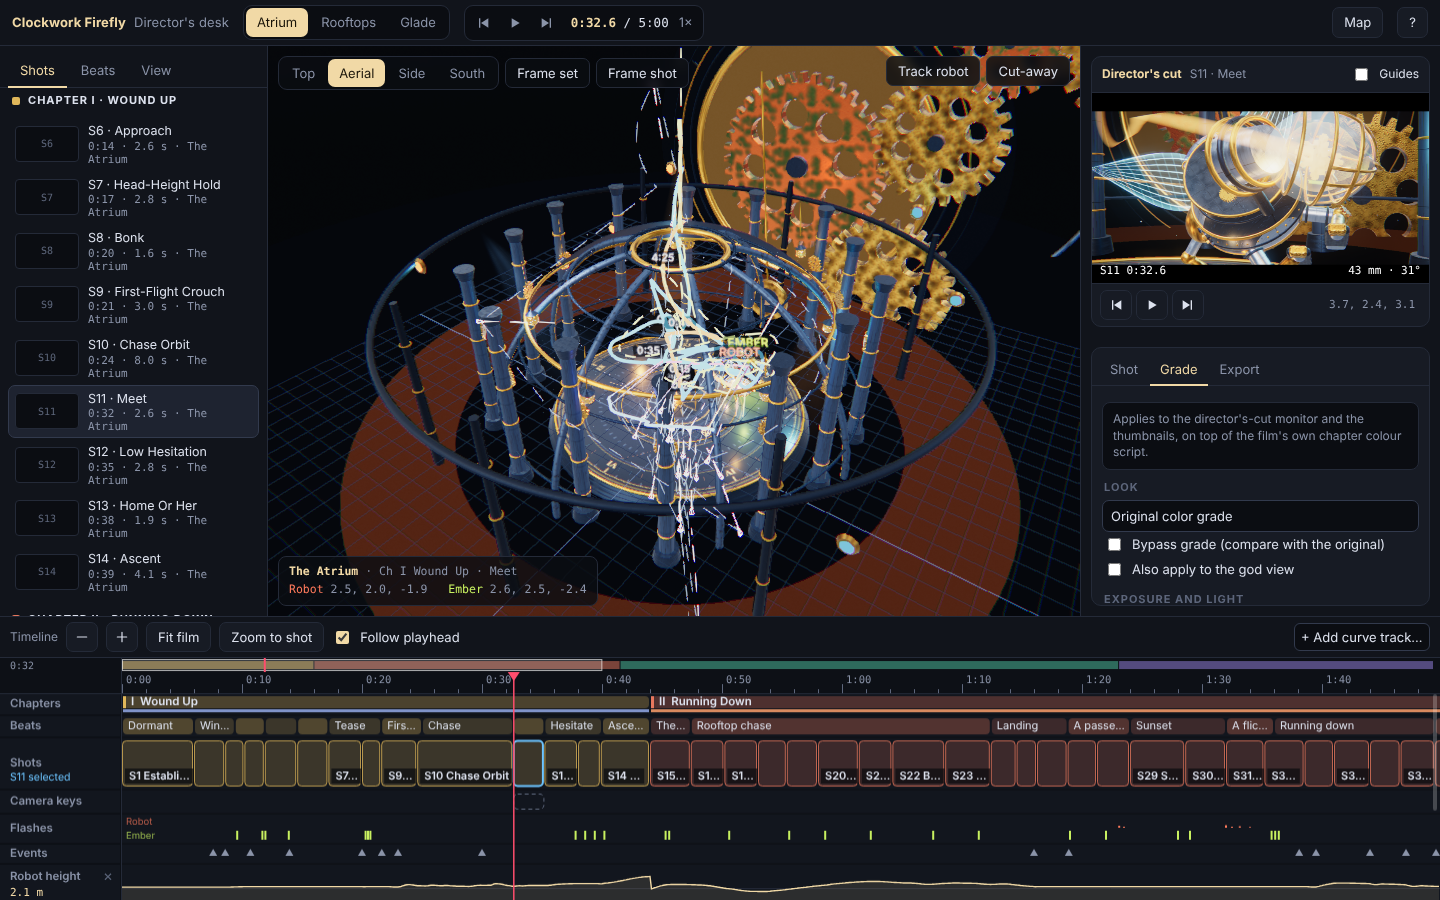
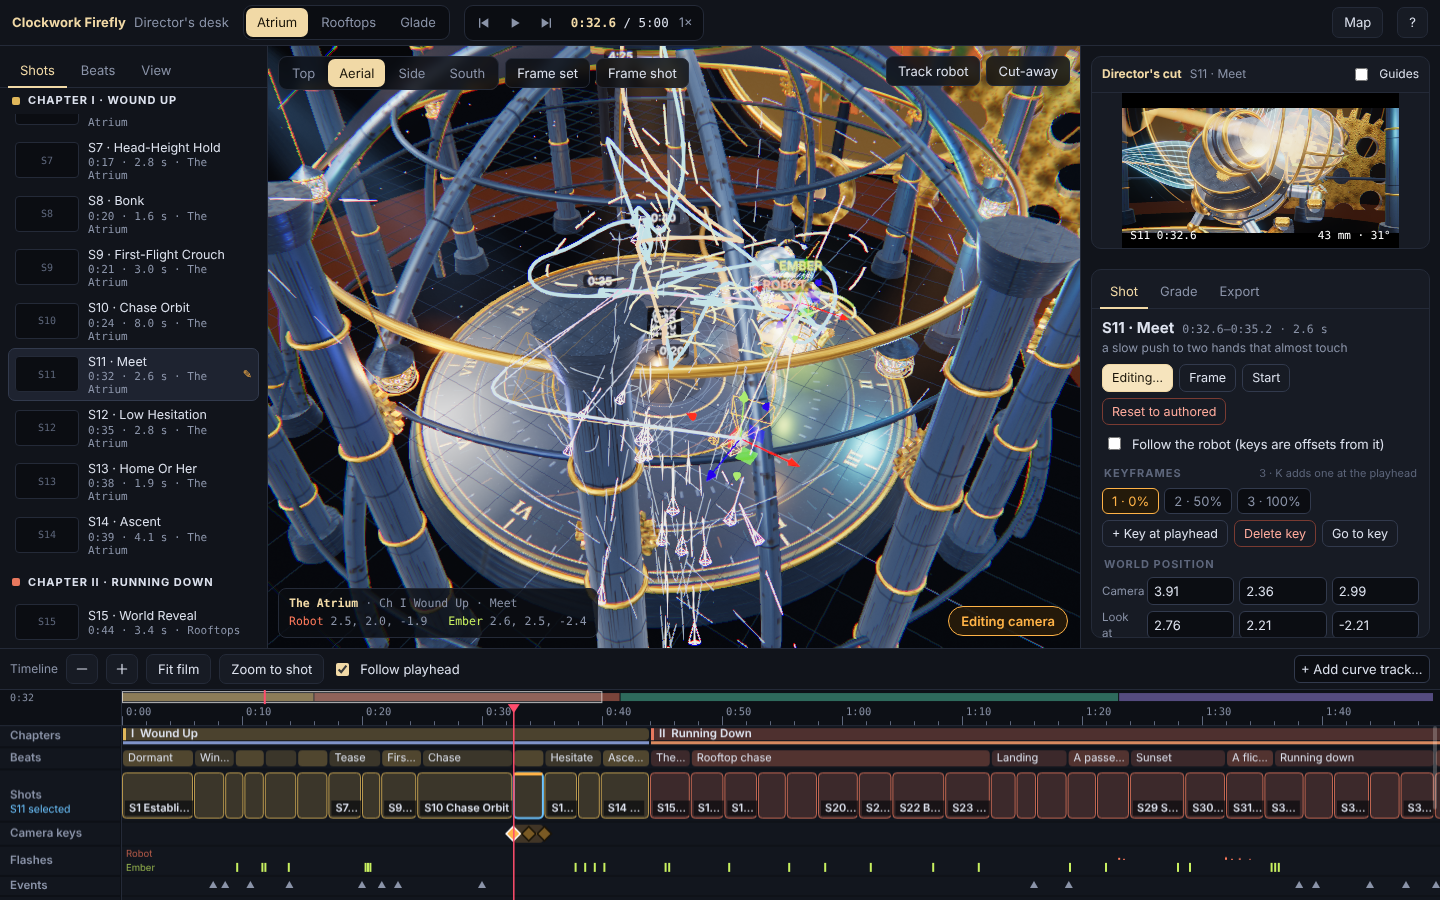
Polish Director's desk: tidier edit layout, real-pointer test steps
Move the editing badge off the toolbar, size the timeline to the window,
hide the monitor transport on short screens, compact inspector buttons,
note that exposure and bloom are preview-only, add mouse steps to gvtest.

Claude-Session: https://claude.ai/code/session_011UNH1eXFp4kGTqyJp5jUQw

diff --git a/Clockwork_Firefly_godview.html b/Clockwork_Firefly_godview.html
@@ -121,7 +121,7 @@ body.godview{background:var(--gv-bg)}
 body.godview #titleCard,body.godview #chapterCard,body.godview #end,body.godview #start,body.godview #loader,body.godview #chrome,body.godview #notes,body.godview #toast{display:none!important}
 #gv,#gvBoot,#gvMap,#gvHelp,#gvTip{font:13px/1.4 var(--gv-font);color:var(--gv-text)}
 #gv *{box-sizing:border-box}
-#gv{position:fixed;inset:0;z-index:20;display:grid;grid-template-columns:268px minmax(0,1fr) 360px;grid-template-rows:46px minmax(0,1fr) var(--gv-tlh,284px);grid-template-areas:"top top top" "left stage right" "tl tl tl";background:var(--gv-bg)}
+#gv{position:fixed;inset:0;z-index:20;display:grid;grid-template-columns:268px minmax(0,1fr) 360px;grid-template-rows:46px minmax(0,1fr) var(--gv-tlh,min(284px,28vh));grid-template-areas:"top top top" "left stage right" "tl tl tl";background:var(--gv-bg)}
 #gv button,#gv select,#gv input,#gv textarea{font:inherit}
 :where(#gv) button,:where(#gv) select,:where(#gv) input,:where(#gv) textarea{color:var(--gv-text)}
 #gv button{cursor:pointer}
@@ -216,7 +216,7 @@ input[type=range]{width:100%;accent-color:var(--gv-gold);height:18px;background:
 #gvReadout{font:11.5px var(--gv-mono);padding:6px 10px;background:rgba(11,13,18,.82);border:1px solid var(--gv-line);border-radius:8px;color:var(--gv-dim);pointer-events:none;line-height:1.55}
 #gvReadout b{color:var(--gv-gold);font-weight:600}
 #gvReadout .r{color:var(--gv-hero)}#gvReadout .e{color:var(--gv-ember)}
-#gvEditBadge{position:absolute;z-index:3;left:50%;top:10px;transform:translateX(-50%);padding:5px 12px;background:rgba(40,28,10,.9);border:1px solid var(--gv-edit);color:var(--gv-edit);border-radius:99px;font-weight:600;pointer-events:none}
+#gvEditBadge{position:absolute;z-index:3;right:12px;bottom:12px;padding:5px 12px;background:rgba(40,28,10,.9);border:1px solid var(--gv-edit);color:var(--gv-edit);border-radius:99px;font-weight:600;pointer-events:none}
 #gvTip{position:fixed;z-index:70;pointer-events:none;background:rgba(10,12,18,.96);border:1px solid var(--gv-line2);border-radius:8px;padding:6px 10px;font:12px var(--gv-mono)}
 
 /* monitor */
@@ -289,6 +289,10 @@ textarea.num{height:120px;resize:vertical}
   #gvTop .brand i{display:none}
 }
 @media (prefers-reduced-motion:reduce){#gvLeft,#gvRight{transition:none}}
+
+@media (max-height:980px) and (min-width:901px){.monbar{display:none}}
+#gvIShot .btns .btn{padding:4px 9px;font-size:12.5px}
+@media (max-height:980px) and (min-width:901px){#gvMonCard .monwrap{width:82%;margin:0 auto}}
 
 </style>
 </head>
@@ -7371,7 +7375,7 @@ function godViewInstall(film) {
     let h = `<div class="shead"><h3>S${i + 1} · ${gvEsc(gvShotTitle(s.t0, i))}</h3><span class="m">${gvFmtF(s.t0)}–${gvFmtF(s.t1)} · ${shotDur(i).toFixed(1)} s</span></div>`;
     const desc = note && note.split(/\s+[—-]\s+/).length > 1 ? note.split(/\s+[—-]\s+/).slice(1).join(' — ') : '';
     h += `<div class="snote">${gvEsc(desc || 'Authored in code. Its camera follows the action with springs and a slow move.')}</div>`;
-    h += `<div class="btns"><button class="btn pri" id="iEdit">${ov ? (gv.editOn ? 'Editing…' : 'Edit camera') : 'Edit camera'}</button><button class="btn" id="iFrame">Frame shot</button><button class="btn" id="iStart">Go to start</button>${ov ? '<button class="btn warn" id="iReset">Reset to authored</button>' : ''}</div>`;
+    h += `<div class="btns"><button class="btn pri" id="iEdit">${ov ? (gv.editOn ? 'Editing…' : 'Edit camera') : 'Edit camera'}</button><button class="btn" id="iFrame">Frame</button><button class="btn" id="iStart">Start</button>${ov ? '<button class="btn warn" id="iReset">Reset to authored</button>' : ''}</div>`;
     if (!ov) {
       h += `<div class="note">This shot is driven by code: it reads the robot's position, adds spring smoothing and a slow move${drift ? ` (drift ${gvEsc(Object.entries(drift).map(([k, v]) => k + ' ' + JSON.stringify(v)).join(', '))})` : ''}${hand ? `, plus handheld sway (${hand[0]})` : ''}. <b>Edit camera</b> bakes it into ${shotDur(i) > 2.5 ? '3' : '2'} keyframes you can move with the gizmos or the numbers below.</div>`;
     } else {
@@ -7380,7 +7384,7 @@ function godViewInstall(film) {
       h += `<div class="sect">Keyframes <span class="hint">${ov.keys.length} · K adds one at the playhead</span></div><div class="keys">${ov.keys.map((kk, n) => `<button data-key="${n}" class="${n === gv.selKey ? 'on' : ''}">${n + 1} · ${Math.round(kk.u * 100)}%</button>`).join('')}</div>`;
       h += `<div class="btns"><button class="btn sm" id="iAddKey">+ Key at playhead</button><button class="btn sm warn" id="iDelKey" ${ov.keys.length <= 1 ? 'disabled' : ''}>Delete key</button><button class="btn sm" id="iGoKey">Go to key</button></div>`;
       h += `<div class="sect">${pf}</div><div class="xyz"><label>Camera</label>${['px', 'py', 'pz'].map((f, n) => `<input class="num" data-f="${f}" type="number" step="0.05" value="${num(k.pos[n])}">`).join('')}</div>`;
-      h += `<div class="xyz"><label>Look at</label>${['tx', 'ty', 'tz'].map((f, n) => `<input class="num" data-f="${f}" type="number" step="0.05" value="${num(k.target[n])}">`).join('')}</div>`;
+      h += `<div class="xyz"><label>Aim</label>${['tx', 'ty', 'tz'].map((f, n) => `<input class="num" data-f="${f}" type="number" step="0.05" value="${num(k.target[n])}">`).join('')}</div>`;
       h += `<div class="rg"><label for="kFov">Lens</label><input type="range" id="kFov" data-f="fov" min="12" max="90" step="0.5" value="${num(k.fov, 1)}"><output id="kFovV">${num(k.fov, 0)}° · ${(12 / Math.tan(THREE.MathUtils.degToRad(k.fov / 2))).toFixed(0)} mm</output></div>`;
       h += `<div class="rg"><label for="kRoll">Dutch</label><input type="range" id="kRoll" data-f="roll" min="-15" max="15" step="0.25" value="${num((k.roll || 0) * 57.2958, 2)}"><output id="kRollV">${num((k.roll || 0) * 57.2958, 1)}°</output></div>`;
       h += `<div class="rg"><label for="kShake">Shake</label><input type="range" id="kShake" data-f="shake" min="0" max="1" step="0.01" value="${num(k.shake ?? 0.15)}"><output id="kShakeV">${num(k.shake ?? 0.15)}</output></div>`;
@@ -7438,7 +7442,7 @@ function godViewInstall(film) {
   const hexTint = (h) => [1, 3, 5].map((n) => 0.5 + parseInt(h.slice(n, n + 2), 16) / 255);
   function renderGrade() {
     const names = Object.entries(gradeNames).filter(([k]) => k !== 'gvcustom');
-    let h = `<div class="note">Applies to the director's-cut monitor and the thumbnails, on top of the film's own chapter colour script. ${G.touched ? '<b>Edited.</b>' : ''}</div>`;
+    let h = `<div class="note">Applies to the director's-cut monitor and the thumbnails, on top of the film's own chapter colour script. Look, tone and colour are baked into the film on export; exposure and bloom are for previewing only. ${G.touched ? '<b>Edited.</b>' : ''}</div>`;
     h += `<div class="sect">Look</div><select class="sel" id="gBase">${names.map(([k, v]) => `<option value="${k}" ${k === G.base ? 'selected' : ''}>${gvEsc(v)}</option>`).join('')}</select>`;
     h += `<label class="chk"><input type="checkbox" id="gBypass" ${G.bypass ? 'checked' : ''}> Bypass grade (compare with the original)</label><label class="chk"><input type="checkbox" id="gGod" ${G.applyGod ? 'checked' : ''}> Also apply to the god view</label>`;
     h += `<div class="sect">Exposure and light</div><div class="rg"><label>Exposure</label><input type="range" data-g="exposure" min="0.4" max="2.5" step="0.01" value="${G.exposure}"><output>${G.exposure.toFixed(2)}</output></div><div class="rg"><label>Bloom</label><input type="range" data-g="bloom" min="0" max="3" step="0.01" value="${G.bloom}"><output>${G.bloom.toFixed(2)}</output></div>`;
@@ -7652,6 +7656,7 @@ function godViewInstall(film) {
   $g('gvBoot').classList.add('hidden');
   fitStage();
   Object.assign(gv, { setView, setSet, openMap, frameSet, frameShot, startCapture, shotOfSet, keyWorld, rebuildEdit, renderShotRows, state, layers, sm, bounds, cap });
+  gv.dbg = { proxyPos, proxyTgt, camera, renderer, THREE };
   window.__godview = gv;
 }
 

diff --git a/tools/godview.inject.js b/tools/godview.inject.js
@@ -513,7 +513,7 @@ function godViewInstall(film) {
     let h = `<div class="shead"><h3>S${i + 1} · ${gvEsc(gvShotTitle(s.t0, i))}</h3><span class="m">${gvFmtF(s.t0)}–${gvFmtF(s.t1)} · ${shotDur(i).toFixed(1)} s</span></div>`;
     const desc = note && note.split(/\s+[—-]\s+/).length > 1 ? note.split(/\s+[—-]\s+/).slice(1).join(' — ') : '';
     h += `<div class="snote">${gvEsc(desc || 'Authored in code. Its camera follows the action with springs and a slow move.')}</div>`;
-    h += `<div class="btns"><button class="btn pri" id="iEdit">${ov ? (gv.editOn ? 'Editing…' : 'Edit camera') : 'Edit camera'}</button><button class="btn" id="iFrame">Frame shot</button><button class="btn" id="iStart">Go to start</button>${ov ? '<button class="btn warn" id="iReset">Reset to authored</button>' : ''}</div>`;
+    h += `<div class="btns"><button class="btn pri" id="iEdit">${ov ? (gv.editOn ? 'Editing…' : 'Edit camera') : 'Edit camera'}</button><button class="btn" id="iFrame">Frame</button><button class="btn" id="iStart">Start</button>${ov ? '<button class="btn warn" id="iReset">Reset to authored</button>' : ''}</div>`;
     if (!ov) {
       h += `<div class="note">This shot is driven by code: it reads the robot's position, adds spring smoothing and a slow move${drift ? ` (drift ${gvEsc(Object.entries(drift).map(([k, v]) => k + ' ' + JSON.stringify(v)).join(', '))})` : ''}${hand ? `, plus handheld sway (${hand[0]})` : ''}. <b>Edit camera</b> bakes it into ${shotDur(i) > 2.5 ? '3' : '2'} keyframes you can move with the gizmos or the numbers below.</div>`;
     } else {
@@ -522,7 +522,7 @@ function godViewInstall(film) {
       h += `<div class="sect">Keyframes <span class="hint">${ov.keys.length} · K adds one at the playhead</span></div><div class="keys">${ov.keys.map((kk, n) => `<button data-key="${n}" class="${n === gv.selKey ? 'on' : ''}">${n + 1} · ${Math.round(kk.u * 100)}%</button>`).join('')}</div>`;
       h += `<div class="btns"><button class="btn sm" id="iAddKey">+ Key at playhead</button><button class="btn sm warn" id="iDelKey" ${ov.keys.length <= 1 ? 'disabled' : ''}>Delete key</button><button class="btn sm" id="iGoKey">Go to key</button></div>`;
       h += `<div class="sect">${pf}</div><div class="xyz"><label>Camera</label>${['px', 'py', 'pz'].map((f, n) => `<input class="num" data-f="${f}" type="number" step="0.05" value="${num(k.pos[n])}">`).join('')}</div>`;
-      h += `<div class="xyz"><label>Look at</label>${['tx', 'ty', 'tz'].map((f, n) => `<input class="num" data-f="${f}" type="number" step="0.05" value="${num(k.target[n])}">`).join('')}</div>`;
+      h += `<div class="xyz"><label>Aim</label>${['tx', 'ty', 'tz'].map((f, n) => `<input class="num" data-f="${f}" type="number" step="0.05" value="${num(k.target[n])}">`).join('')}</div>`;
       h += `<div class="rg"><label for="kFov">Lens</label><input type="range" id="kFov" data-f="fov" min="12" max="90" step="0.5" value="${num(k.fov, 1)}"><output id="kFovV">${num(k.fov, 0)}° · ${(12 / Math.tan(THREE.MathUtils.degToRad(k.fov / 2))).toFixed(0)} mm</output></div>`;
       h += `<div class="rg"><label for="kRoll">Dutch</label><input type="range" id="kRoll" data-f="roll" min="-15" max="15" step="0.25" value="${num((k.roll || 0) * 57.2958, 2)}"><output id="kRollV">${num((k.roll || 0) * 57.2958, 1)}°</output></div>`;
       h += `<div class="rg"><label for="kShake">Shake</label><input type="range" id="kShake" data-f="shake" min="0" max="1" step="0.01" value="${num(k.shake ?? 0.15)}"><output id="kShakeV">${num(k.shake ?? 0.15)}</output></div>`;
@@ -580,7 +580,7 @@ function godViewInstall(film) {
   const hexTint = (h) => [1, 3, 5].map((n) => 0.5 + parseInt(h.slice(n, n + 2), 16) / 255);
   function renderGrade() {
     const names = Object.entries(gradeNames).filter(([k]) => k !== 'gvcustom');
-    let h = `<div class="note">Applies to the director's-cut monitor and the thumbnails, on top of the film's own chapter colour script. ${G.touched ? '<b>Edited.</b>' : ''}</div>`;
+    let h = `<div class="note">Applies to the director's-cut monitor and the thumbnails, on top of the film's own chapter colour script. Look, tone and colour are baked into the film on export; exposure and bloom are for previewing only. ${G.touched ? '<b>Edited.</b>' : ''}</div>`;
     h += `<div class="sect">Look</div><select class="sel" id="gBase">${names.map(([k, v]) => `<option value="${k}" ${k === G.base ? 'selected' : ''}>${gvEsc(v)}</option>`).join('')}</select>`;
     h += `<label class="chk"><input type="checkbox" id="gBypass" ${G.bypass ? 'checked' : ''}> Bypass grade (compare with the original)</label><label class="chk"><input type="checkbox" id="gGod" ${G.applyGod ? 'checked' : ''}> Also apply to the god view</label>`;
     h += `<div class="sect">Exposure and light</div><div class="rg"><label>Exposure</label><input type="range" data-g="exposure" min="0.4" max="2.5" step="0.01" value="${G.exposure}"><output>${G.exposure.toFixed(2)}</output></div><div class="rg"><label>Bloom</label><input type="range" data-g="bloom" min="0" max="3" step="0.01" value="${G.bloom}"><output>${G.bloom.toFixed(2)}</output></div>`;
@@ -794,5 +794,6 @@ function godViewInstall(film) {
   $g('gvBoot').classList.add('hidden');
   fitStage();
   Object.assign(gv, { setView, setSet, openMap, frameSet, frameShot, startCapture, shotOfSet, keyWorld, rebuildEdit, renderShotRows, state, layers, sm, bounds, cap });
+  gv.dbg = { proxyPos, proxyTgt, camera, renderer, THREE };
   window.__godview = gv;
 }

diff --git a/tools/godview.css b/tools/godview.css
@@ -11,7 +11,7 @@ body.godview{background:var(--gv-bg)}
 body.godview #titleCard,body.godview #chapterCard,body.godview #end,body.godview #start,body.godview #loader,body.godview #chrome,body.godview #notes,body.godview #toast{display:none!important}
 #gv,#gvBoot,#gvMap,#gvHelp,#gvTip{font:13px/1.4 var(--gv-font);color:var(--gv-text)}
 #gv *{box-sizing:border-box}
-#gv{position:fixed;inset:0;z-index:20;display:grid;grid-template-columns:268px minmax(0,1fr) 360px;grid-template-rows:46px minmax(0,1fr) var(--gv-tlh,284px);grid-template-areas:"top top top" "left stage right" "tl tl tl";background:var(--gv-bg)}
+#gv{position:fixed;inset:0;z-index:20;display:grid;grid-template-columns:268px minmax(0,1fr) 360px;grid-template-rows:46px minmax(0,1fr) var(--gv-tlh,min(284px,28vh));grid-template-areas:"top top top" "left stage right" "tl tl tl";background:var(--gv-bg)}
 #gv button,#gv select,#gv input,#gv textarea{font:inherit}
 :where(#gv) button,:where(#gv) select,:where(#gv) input,:where(#gv) textarea{color:var(--gv-text)}
 #gv button{cursor:pointer}
@@ -106,7 +106,7 @@ input[type=range]{width:100%;accent-color:var(--gv-gold);height:18px;background:
 #gvReadout{font:11.5px var(--gv-mono);padding:6px 10px;background:rgba(11,13,18,.82);border:1px solid var(--gv-line);border-radius:8px;color:var(--gv-dim);pointer-events:none;line-height:1.55}
 #gvReadout b{color:var(--gv-gold);font-weight:600}
 #gvReadout .r{color:var(--gv-hero)}#gvReadout .e{color:var(--gv-ember)}
-#gvEditBadge{position:absolute;z-index:3;left:50%;top:10px;transform:translateX(-50%);padding:5px 12px;background:rgba(40,28,10,.9);border:1px solid var(--gv-edit);color:var(--gv-edit);border-radius:99px;font-weight:600;pointer-events:none}
+#gvEditBadge{position:absolute;z-index:3;right:12px;bottom:12px;padding:5px 12px;background:rgba(40,28,10,.9);border:1px solid var(--gv-edit);color:var(--gv-edit);border-radius:99px;font-weight:600;pointer-events:none}
 #gvTip{position:fixed;z-index:70;pointer-events:none;background:rgba(10,12,18,.96);border:1px solid var(--gv-line2);border-radius:8px;padding:6px 10px;font:12px var(--gv-mono)}
 
 /* monitor */
@@ -179,3 +179,7 @@ textarea.num{height:120px;resize:vertical}
   #gvTop .brand i{display:none}
 }
 @media (prefers-reduced-motion:reduce){#gvLeft,#gvRight{transition:none}}
+
+@media (max-height:980px) and (min-width:901px){.monbar{display:none}}
+#gvIShot .btns .btn{padding:4px 9px;font-size:12.5px}
+@media (max-height:980px) and (min-width:901px){#gvMonCard .monwrap{width:82%;margin:0 auto}}
